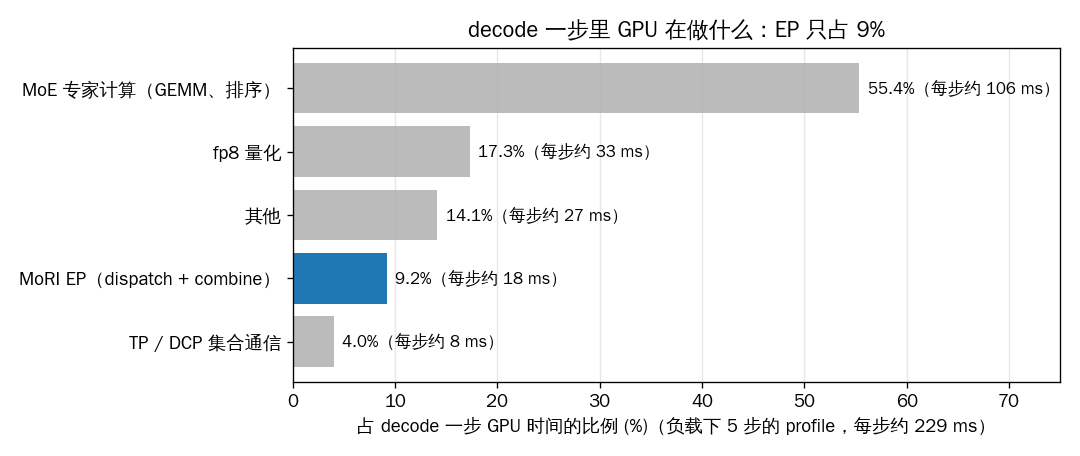
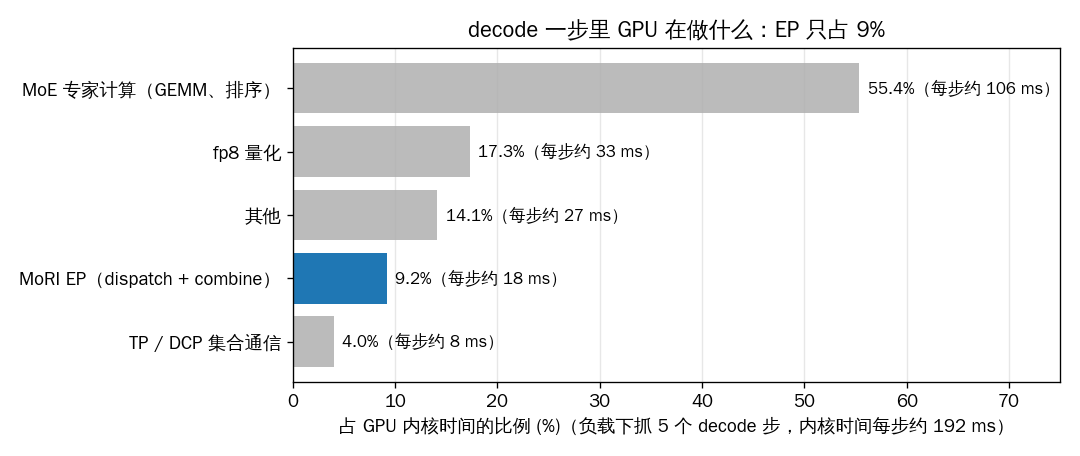
[Docs] K3.1 EP x KV write-up: fix figure captions against the data (fig1 bumps, fig5 batch drift, fig6 kernel-time basis)

Changed region(s): [[0.3056, 0.8904, 0.9472, 0.9518]]

diff --git a/docs/epio/k31_agentx_ep_kv_umbp_zh.md b/docs/epio/k31_agentx_ep_kv_umbp_zh.md
@@ -7,7 +7,7 @@
 - **真实负载下，KV 传输不拖慢 EP。** decode 每一步（里面包含跨机 EP 的 all-to-all）的耗时，不随同一时刻到达的 KV 变化；KV 突发前后，EP 的流量也没有变化。
 - **主动加压也一样。** 往 decode 的 GPU 显存额外打 KV 形状的流量，一直加到接近网卡线速、每一次 EP 都和它撞上，decode 每一步只慢约 1%，和噪声相当。
 - **会拖慢的是写 decode 主机内存、而且跨 NUMA 的流量**：最高让 decode 每一步慢 14%；同 NUMA 时没有影响。
-- **原因之一是 EP 在这里是小流量、只占 decode 时间的一小部分**：EP 流量只占网卡能力的 0.6%，EP 内核只占 decode GPU 时间的 9%。
+- **原因之一是 EP 在这里是小流量、只占 decode 时间的一小部分**：EP 流量只占网卡能力的 0.6%，EP 内核只占 decode GPU 内核时间的 9%。
 - 对照：把所有 RDMA 流量都放进有损的 TC 0，KV 突发会丢包，EP 也会跟着重传；无损的 TC 104 下没有这个问题。
 
 ## 1. 测的是什么
@@ -26,7 +26,7 @@
 
 ## 2. 怎么测
 
-- **decode 每一步的耗时**：在每个 DP 组的主 rank 上，用 GPU 事件记录每一步（draft + verify）的 GPU 时间和这一步的 batch 大小。EP 的 dispatch / combine 都在这一步里，所以 EP 如果变慢，这一步就会变慢。
+- **decode 每一步的耗时**：在每个 DP 组的主 rank 上，用 GPU 事件记录每一步（draft + verify）的 GPU 时间和这一步的 batch 大小。EP 的 dispatch / combine 都在这一步里，所以 EP 如果变慢，这一步就会变慢。两个 DP 组每一层 MoE 都要通过 EP 互相交换 token，所以两组的步长是同步的。
 - **网卡流量**：4 台机器每张网卡每 5 ms 记一次收发字节数，另外记 PFC 暂停时间和重传次数。
 - **把 KV 和 EP 分开**：两台 decode 之间只有 EP；prefill 的网卡只发 KV。所以某台 decode 收到的字节，减去另一台 decode 发给它的（就是 EP），剩下的就是流入它的 KV。
 - **对比时去掉 batch 的影响**：batch 越大，一步越慢。比较时，每一步都和"同样 batch 大小的步"的中位数比，看它慢了多少。
@@ -38,18 +38,19 @@
 
 ![真实负载中的一分钟](img/fig1_one_minute.png)
 
-**怎么看**：同一分钟、同一台 decode 节点，从上到下依次是：流入的 KV、流入的 EP、decode 每一步的耗时（每个点是一步）、这一步的 batch 大小。
+**怎么看**：选的是 1 小时里 KV 超过 40 GB/s 次数最多的一分钟。同一分钟、同一台 decode 节点，从上到下依次是：流入的 KV、流入的 EP、decode 每一步的耗时（每个点是一步）、这一步的 batch 大小。
 
 **说明了什么**：
-- KV 是一根根尖刺：每次几十毫秒，峰值能到 300 GB/s 以上，其余时间几乎为 0。
-- EP 是一条平稳的细流，约 3 GB/s（规律的小尖峰是每一步里的 dispatch / combine）。
-- decode 每一步稳定在约 225 ms，KV 尖刺来的时候没有变化。第 19–22 秒和第 48–51 秒的小凸起对应 batch 变大（最下面一行），不是 KV。
+- KV 是一根根尖刺：每根几十毫秒，峰值能到 300 GB/s 以上，其余时间几乎为 0。
+- EP 是一条平稳的细流，这一分钟平均约 2.9 GB/s；规律的竖线是每一步里的 dispatch / combine。
+- decode 每一步在 224–234 ms 之间。KV 尖刺最高、最密的几秒（第 10–14 秒、第 58–60 秒）步长没有变化。
+- 两处小凸起（第 18–22 秒、第 48–52 秒，每步多 6–9 ms）：第二处前后几乎没有 KV（平均不到 1 GB/s），所以不是 KV 引起的；batch 大小、正在 decode 的请求的上下文总长度也解释不了，具体原因没有查到。
 
 ### 3.2 一步执行期间到达的 KV 越多，这一步会不会越慢
 
 ![decode 步 vs 同时到达的 KV](img/fig2_step_vs_kv.png)
 
-**怎么看**：把 1 小时里约 3 万个 decode 步，按"这一步执行期间流入 decode 节点的 KV 有多快"分成几档；纵轴是每档比"没有 KV 的步"慢多少（已经扣掉 batch 大小的影响），柱子上的数字是这一档有多少步。蓝色是实际配置（TC 104），橙色是 TC 0 对照（第 7 节）。
+**怎么看**：把 1 小时里约 3 万个 decode 步，按"这一步执行期间流入 decode 节点的 KV 有多快"分成几档；纵轴是每档比"没有 KV 的步"慢多少（已经扣掉 batch 大小的影响），柱子上的数字是这一档有多少步，步数越少越不准（比如 TC 0 的 50–100 档只有 35 步）。蓝色是实际配置（TC 104），橙色是 TC 0 对照（第 7 节）。
 
 **说明了什么**：在 TC 104 下，就算一步执行期间流入 20–100 GB/s 的 KV，这一步也只慢 0.1%–0.3%（217 ms 里不到 1 ms）。
 
@@ -88,7 +89,7 @@
 | 0.5–5 | 3,810 | +0.01% | 3,432 | +0.13% |
 | 5–20 | 848 | +0.22% | 1,171 | +0.09% |
 | 20–50 | 439 | +0.28% | 265 | +0.31% |
-| 50–100 | 68 | +0.08% | – | – |
+| 50–100 | 68 | +0.07% | – | – |
 
 线性回归（一步耗时 = a + b·batch + c·另一 DP 组的 batch + d·KV 速率）：d = 0.014 / 0.008 ms per GB/s，按 p99 的 KV 速率算影响 0.24% / 0.10%。
 
@@ -107,7 +108,9 @@
 
 **怎么看**：上图是流入两台 decode 的总流量（KV + 注入），色块是注入窗口，颜色代表写到哪、上方数字是每张网卡的速率；下图是 decode 每一步的耗时（10 秒平均）。
 
-**说明了什么**：大部分窗口里 decode 曲线没有跟着色块变化；唯一明显的抬升在第 35–36 分钟——"主机内存、跨 NUMA、36 GB/s"那个窗口（红色）。
+**说明了什么**：
+- 曲线整体的起伏是 batch 在变：前 10 分钟两个 DP 组合计从约 80 个请求涨到约 180 个，步长从约 195 ms 升到约 225 ms；后半段 batch 约 115–145 个，步长约 212–220 ms。所以每个注入窗口只和紧挨着它的、窗口结束后的 52 s 比，并且扣掉 batch 的影响。
+- 大部分窗口里 decode 曲线没有跟着色块变化；唯一明显的抬升在第 35–36 分钟——"主机内存、跨 NUMA、36 GB/s"那个窗口（红色）。
 
 ![注入速率 vs decode 变慢](img/fig4_injection.png)
 
@@ -118,7 +121,7 @@
 - 写主机内存、同 NUMA（紫色）：不到 1%。
 - 写主机内存、跨 NUMA（红色）：5–21 GB/s 慢 3%，36 GB/s 慢 14%。
 
-客户端看到的 ITL 也一样：写 GPU 显存的各档 ITL p90 前后差在 ±3 ms 以内；跨 NUMA 36 GB/s 时 ITL p90 从 72 ms 升到 84 ms。
+客户端看到的 ITL 也一样：写 GPU 显存的各档，ITL p90 和不注入时相比在 −3 到 +4 ms 之间，有升有降；跨 NUMA 36 GB/s 时 ITL p90 从 72 ms 升到 84 ms（明细见下面折叠的表）。
 
 <details>
 <summary>每个注入窗口的明细</summary>
@@ -155,9 +158,11 @@
 
 ![decode 一步里 GPU 在做什么](img/fig6_step_breakdown.png)
 
-**怎么看**：在负载下用 torch profiler 抓了 5 个 decode 步，按内核类型统计 GPU 时间。
+**怎么看**：在负载下用 torch profiler 抓了 5 个 decode 步（DP0 的 TP0），按内核类型统计 GPU 内核时间；柱子是占比，括号里是折算到每一步的时间。
 
-**说明了什么**：decode 一步约 229 ms，大头是 MoE 专家计算（55%）和量化（17%）；MoRI EP 的 dispatch + combine 只占 9%（每步约 18 ms，每次 dispatch 约 80 µs、combine 约 99 µs，每步各 92 次）。所以即使 EP 慢一倍，decode 一步最多也只慢约 9%；第 4 节"每次 EP 都撞上"时只慢 1.3%，折算到 EP 自己最多慢约 14%。
+**说明了什么**：5 步的 GPU 内核时间共 957.5 ms，每步约 192 ms。大头是 MoE 专家计算（55%）和 fp8 量化（17%）；MoRI EP 的 dispatch + combine 只占 9%，每步约 18 ms（每步各 92 次，每次 dispatch 约 80 µs、combine 约 99 µs）。
+- 即使 EP 慢一倍，decode 一步（约 217 ms）也只慢约 8%。
+- 第 4 节"每次 EP 都撞上"时 decode 一步慢 1.3%，约 3 ms；全算到 EP（每步约 18 ms）头上，EP 自己最多慢约 16%。
 
 | EP 流量（两台 decode 之间） | 值 |
 |---|---|
@@ -181,8 +186,8 @@
 | QPS / ITL 均值 / decode 每步 p50 | 2.35 / 65.6 ms / 217.3 ms | 2.40 / 65.3 ms / 217.7 ms |
 | prefill（发 KV）重传的包 | 0 | 2.1–2.3%（每台 2000 多万个） |
 | prefill ACK 超时 | 0 | 每台约 1,300 次 |
-| decode 之间（EP）重传的包 | 0–43 个 | 1,772 / 29,714 个 |
-| decode 之间（EP）ACK 超时 | 0 | 89 / 143 次 |
+| decode 之间（EP）重传的包（node02 / node04） | 0 / 43 个 | 29,714 / 1,772 个 |
+| decode 之间（EP）ACK 超时（node02 / node04） | 0 / 0 | 143 / 89 次 |
 | KV 对 decode 每步的影响（图 2 的 20–50 GB/s 档） | +0.3% | +1.0% |
 
 **说明了什么**：有损类别里，KV 突发在交换机里挤爆队列时会丢包，和它同一个队列的 EP 也被连带丢包重传；在这个负载下影响还小，但 KV 越重越明显。无损的 TC 104 靠 PFC 反压，全程几乎不丢包。
